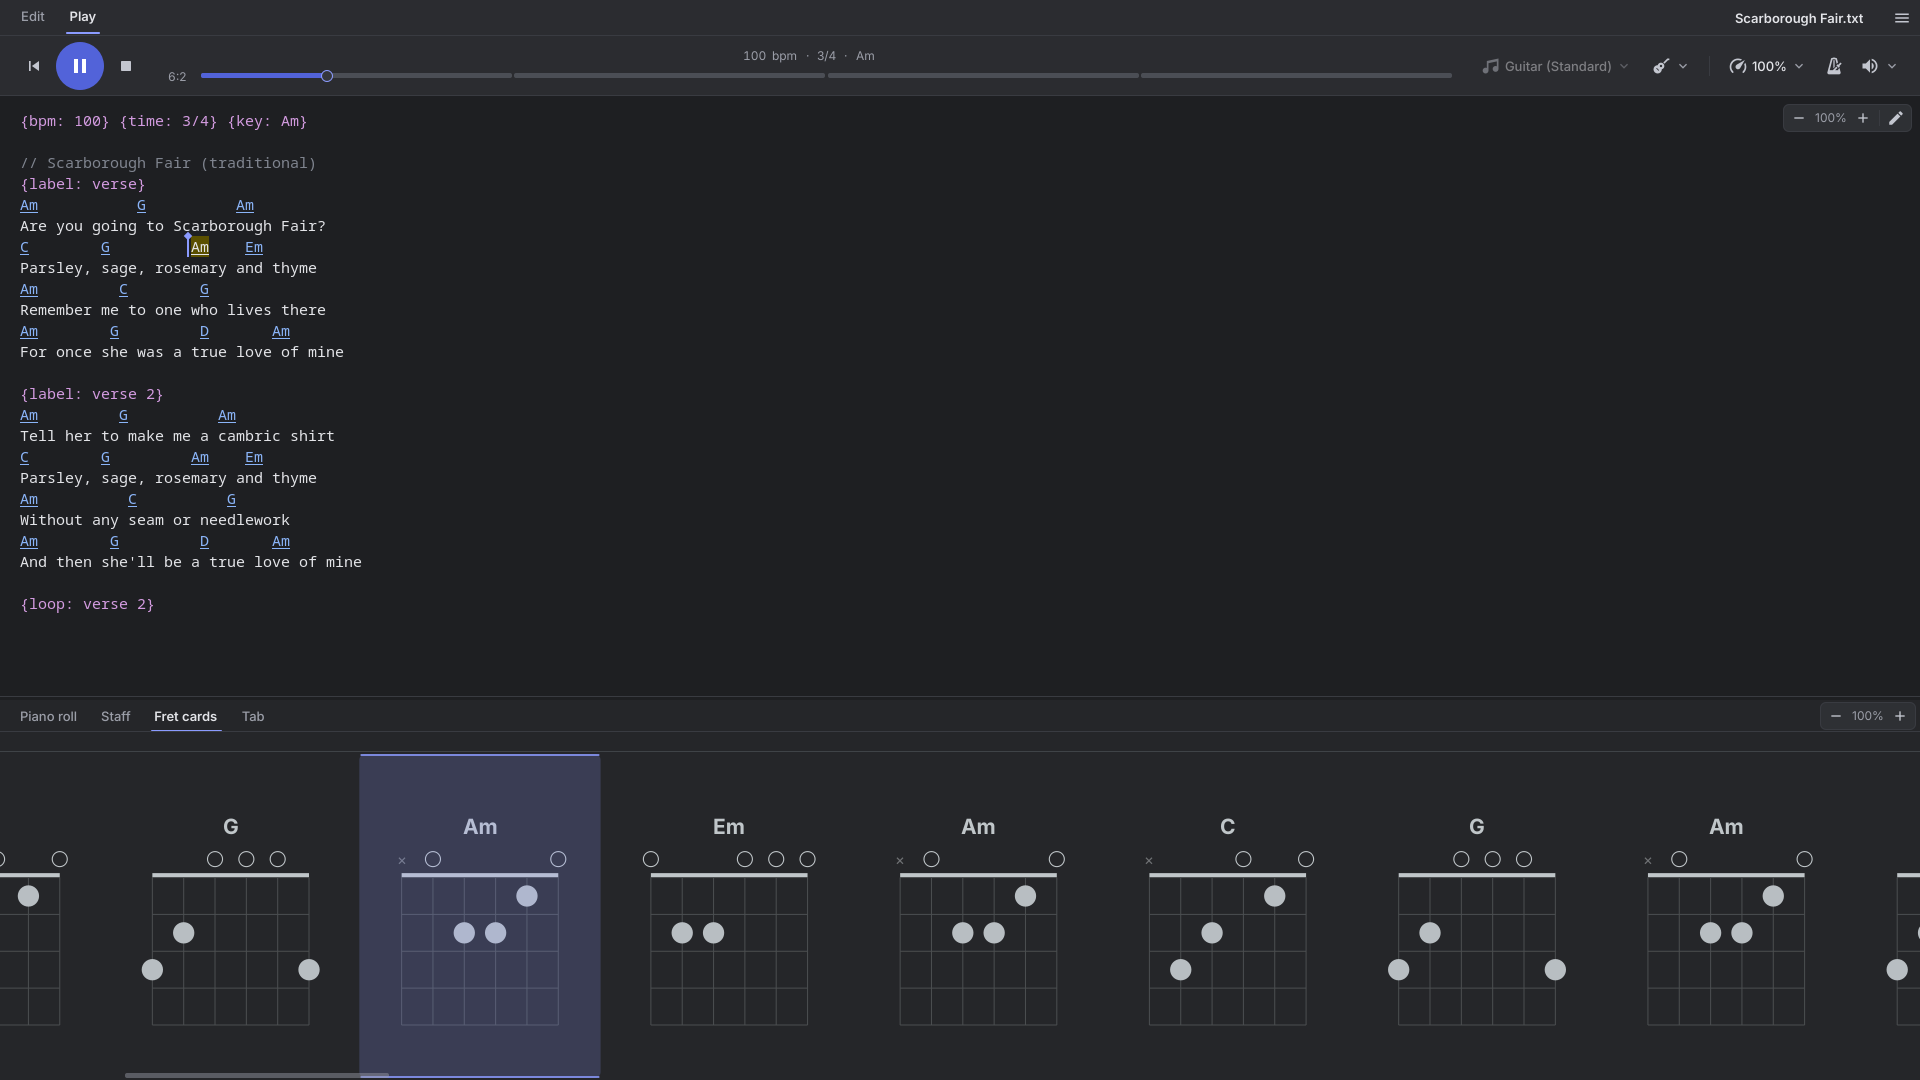
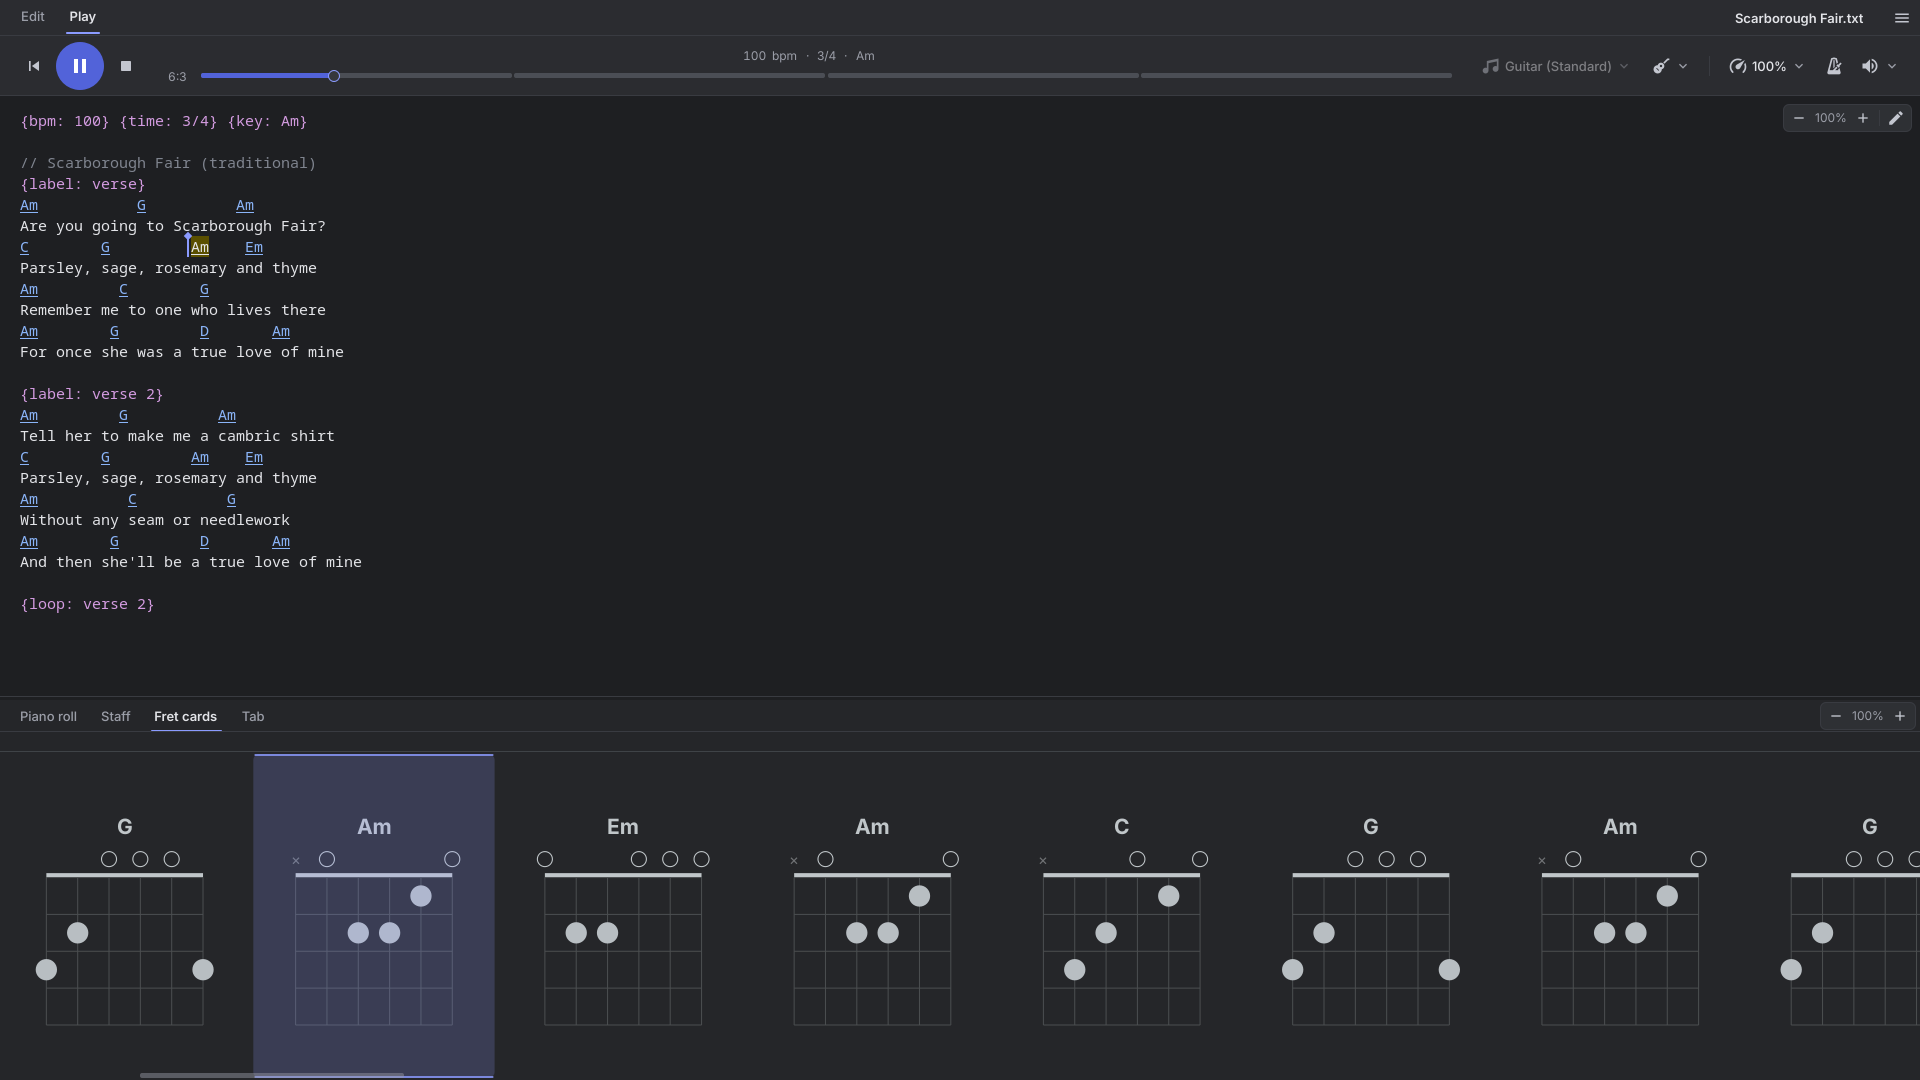
Screenshots: the fret cards start with a whole card
The fret-card shots stop mid-playback, and the strip follows the playing
chord into the 25-70% band, so the first card on screen was cut off at
the left. The scenes now scroll back to the first visible card's edge
before the shot (Scene.align_sheet), in both themes.

diff --git a/packaging/tools/qt_help_screenshots.py b/packaging/tools/qt_help_screenshots.py
@@ -388,6 +388,25 @@ class Scene:
         self.window.setProperty("mode", mode)
         self.settle()
 
+    def align_sheet(self) -> None:
+        """Scroll the chord sheet back so its first visible slot starts at the
+        left edge: following the playing chord leaves the strip mid-slot, and
+        the fret cards' first card came out cut off."""
+        view = self.item("sheetView")
+        sheet = getattr(view, "_sheet", None)
+        if sheet is None:
+            return
+        scroll = float(view.property("scrollX"))
+        index = 0
+        while sheet.slot(index) is not None:
+            x, _width = sheet.slot(index)
+            if x >= scroll - 0.5:
+                # Half a card gap of paper before it, as at the strip's start.
+                view.setProperty("scrollX", max(0.0, x - 4.0))
+                break
+            index += 1
+        self.settle()
+
     def playing(self, chords: int) -> None:
         """Start playback and freeze it after ``chords`` chord pings."""
         self.qt.store.submit("play_pause", {"from_offset": None})
@@ -499,6 +518,7 @@ def _sheet_cards(sc: Scene):
     sc.click("sheetTab:fret")
     sc.wait(1500)  # the new view paints a moment after the tab
     sc.playing(5)
+    sc.align_sheet()
 
 
 @shot("chord-sheet-tab", "chord sheet", "Tab with a guitar voicing.", crop="chordSheetPane", pad=0)
@@ -624,6 +644,7 @@ def _store_cards(sc: Scene):
     sc.click("sheetTab:fret")
     sc.wait(1500)  # the new view paints a moment after the tab
     sc.playing(6)
+    sc.align_sheet()
 
 
 @shot("04-play-staff", "store", "Amazing Grace playing on the staff.", **STORE)
